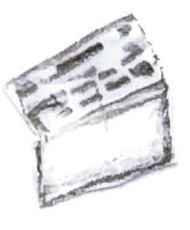
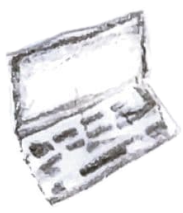
Computer

diff --git a/DerPrototyp_Dädi.js b/DerPrototyp_Dädi.js
@@ -131,27 +131,29 @@ for (var Aktion_Name in Spiel.Aktionen) {
 for (var Gegenstand_Name in Spiel.Gegenstände) {
     var Gegenstand = Spiel.Gegenstände[Gegenstand_Name];
 
-    document.getElementById(Gegenstand_Name).onclick = function() {
+    document.getElementById(Gegenstand_Name).onclick = (function(Gegenstand) {
+        return function() {
 
-        var mögliche_Aktion = Gegenstand.mögliche_Aktionen[Spiel.Spieler.macht_Aktion];
-        if ( mögliche_Aktion && mögliche_Aktion.wo == "im_Raum" ) {
-            mögliche_Aktion.ausführen();
-            Spiel.Spieler.macht_Aktion = "keine";
-            zeige_Spiel_an();
-        }
+            var mögliche_Aktion = Gegenstand.mögliche_Aktionen[Spiel.Spieler.macht_Aktion];
+            if ( mögliche_Aktion && mögliche_Aktion.wo == "im_Raum" ) {
+                mögliche_Aktion.ausführen();
+                Spiel.Spieler.macht_Aktion = "keine";
+                zeige_Spiel_an();
+            }
+        };
+    }( Gegenstand ));
 
-    };
+    document.getElementById(Gegenstand_Name + "InBesitz").onclick = (function(Gegenstand) {
+        return function() {
 
-    document.getElementById(Gegenstand_Name + "InBesitz").onclick = function() {
-
-        var mögliche_Aktion = Gegenstand.mögliche_Aktionen[Spiel.Spieler.macht_Aktion];
-        if ( mögliche_Aktion && mögliche_Aktion.wo == "im_Besitz" ) {
-            mögliche_Aktion.ausführen();
-            Spiel.Spieler.macht_Aktion = "keine";
-            zeige_Spiel_an();
-        }
-
-    };
+            var mögliche_Aktion = Gegenstand.mögliche_Aktionen[Spiel.Spieler.macht_Aktion];
+            if ( mögliche_Aktion && mögliche_Aktion.wo == "im_Besitz" ) {
+                mögliche_Aktion.ausführen();
+                Spiel.Spieler.macht_Aktion = "keine";
+                zeige_Spiel_an();
+            }
+        };
+    }( Gegenstand ));
 }
 
 

diff --git a/DerPrototyp.html b/DerPrototyp.html
@@ -31,12 +31,19 @@
          src="https://mharwood.uk/wp-content/uploads/2019/09/Loading_Icon.gif">
     </img>
 
-    <div id="Bücher">
-    <img
-         id="Bücher-Bild"
-         src="Buecher.png">
-    </img>
+    <div id="Bücher" class="Gegenstand">
+        <img
+             id="Bücher-Bild"
+             src="Buecher.png">
+        </img>
     </div>
+
+    <div id="Computer" class="Gegenstand">
+        <img
+             id="Computer-Bild"
+             src="Computer.png">
+        </img>
+    </div>   
   </div>
 
 </div> <!-- Erste-Spalte -->
@@ -47,11 +54,18 @@
 
     <div id="Besitz">
 
-    <div id="BücherInBesitz">
-    <img
-         id="BücherInBesitz-Bild"
-         src="Buecher.png">
-    </img>
+    <div id="BücherInBesitz" class="GegenstandInBesitz">
+        <img
+             id="BücherInBesitz-Bild"
+             src="Buecher.png">
+        </img>
+    </div>
+
+    <div id="ComputerInBesitz" class="GegenstandInBesitz">
+        <img
+             id="ComputerInBesitz-Bild"
+             src="Computer.png">
+        </img>
     </div>
 
     </div>

diff --git a/DerPrototyp.css b/DerPrototyp.css
@@ -9,14 +9,25 @@
   #Konsole, #Besitz, #Aktionen { width: 100%; }
   #Raum, #Raum-Bild { height: 600px; }
 
-  #Bücher { position: absolute; top: 180px; left: 200px; height: 75px; width: 100px; border: 0px solid black; visibility: hidden; }
-  #Bücher-Bild { width: 100% }
 
   #Konsole { height: 200px; }
 
   #Besitz { height: 70px; padding: 10px; background-color: none; }
-  #BücherInBesitz { height: 75px; width: 100px; visibility: hidden; }
-  #BücherInBesitz-Bild { width: 100%; }
+
+
+
+  .Gegenstand { position: absolute; border: 0px solid black; visibility: hidden; }
+  .Gegenstand > img { max-width: 100%; max-height: 100% }
+  .GegenstandInBesitz { display: inline-block; visibility: hidden; }
+  .GegenstandInBesitz img { max-width: 100%; max-height: 100% }
+
+  #Bücher { top: 180px; left: 200px; height: 75px; width: 100px; }
+  #BücherInBesitz { height: 75px; width: 100px; }
+
+  #Computer { top: 350px; left: 500px; height: 75px; width: 100px; }
+  #ComputerInBesitz { height: 75px; /*width: 100px;*/ }
+
+
 
   #Aktionen { padding: 10px; }
 

diff --git a/DerPrototyp_Gavin.js b/DerPrototyp_Gavin.js
@@ -29,8 +29,18 @@ window.Gegenstände = {
 
         mögliche_Aktionen: {
             nehmen: { wo: "im_Raum" },
-            lernen: { wo: "im_Besitz", zusätzlicher_IQ: 2,
-                      gelernt: false }
+            lernen: { wo: "im_Besitz", zusätzlicher_IQ: 2, gelernt: false }
+        }
+
+    },
+
+    "Computer": {
+
+        in_Raum: "Gegenwart",
+
+        mögliche_Aktionen: {
+            nehmen: { wo: "im_Raum" },
+            lernen: { wo: "im_Besitz", zusätzlicher_IQ: 3, gelernt: false }
         }
 
     }
@@ -47,7 +57,7 @@ window.Aktionen = {
     nehmen: function( Gegenstand, Raum, Spieler ) {
 
         var index = Raum.Gegenstände.indexOf( Gegenstand );
-        Raum.Gegenstände.splice( index );
+        Raum.Gegenstände.splice( index, 1 );
         Spieler.besitzt_Gegenstände.push( Gegenstand );
 
     },
@@ -63,7 +73,7 @@ window.Aktionen = {
 
 window.Spieler = {
 
-    im_Raum: "Vergangenheit",
+    im_Raum: "Gegenwart",
     macht_Aktion: "keine",
 
     besitzt_Gegenstände: [],
